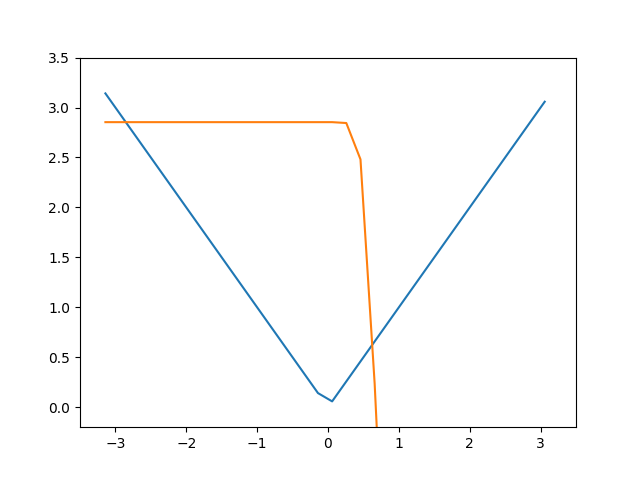
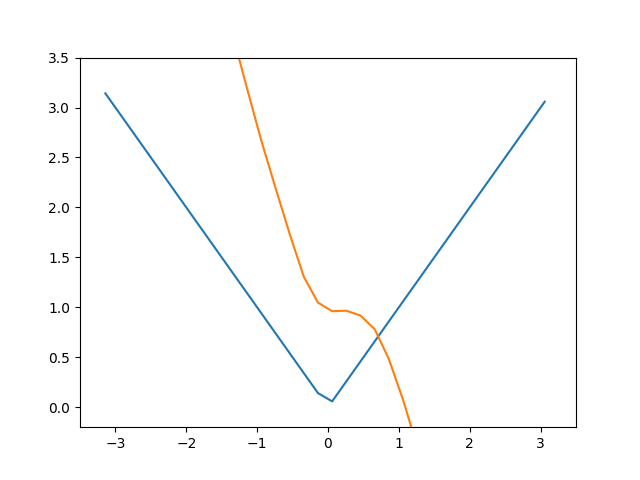
updates

diff --git a/test_NN.py b/test_NN.py
@@ -39,13 +39,13 @@ Test case for function approximator
 '''
 DO = True
 if(DO==True):
-	sinNet = base.NN(1,1,[20], func='relu')
+	sinNet = base.NN(1,1,[128], func='relu')
 
 	X = np.arange(-math.pi,math.pi, 0.2)
 	# Y = np.sin(X)
 	Y = abs(X)
 
-	num_iter = 20
+	num_iter = 500
 	num_epoch = 3
 	sample_x = np.zeros(num_iter)
 	sample_y = np.zeros(num_iter)
